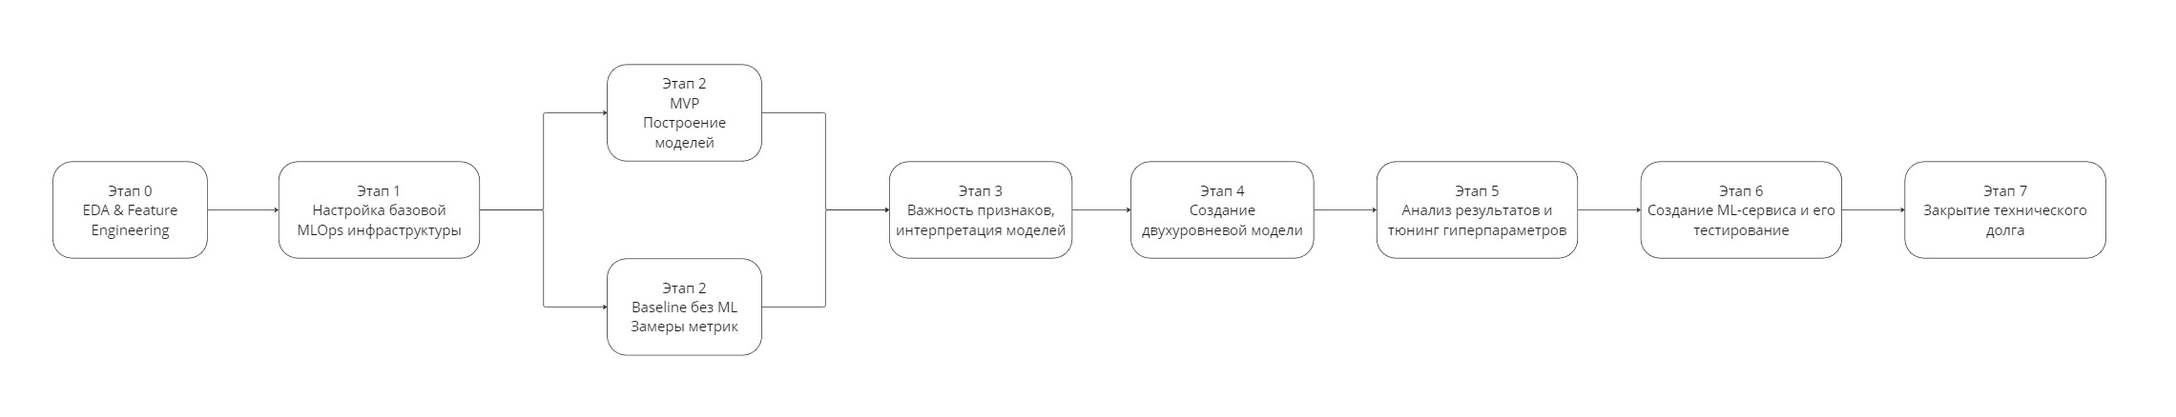
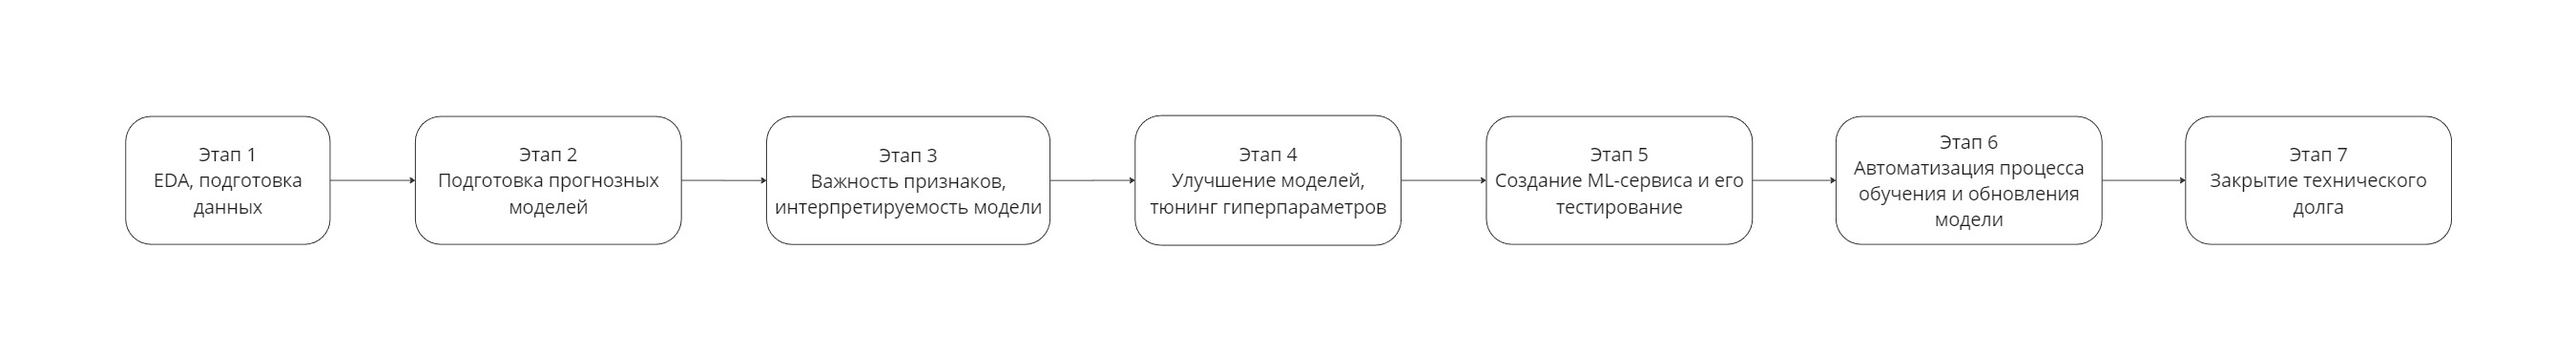
update ml system design doc

diff --git a/docs/ml_system_design_doc.md b/docs/ml_system_design_doc.md
@@ -89,3 +89,166 @@
 ### 2.2. Блок-схема решения
 
 ![Блок-схема](/images/block-scheme.jpg)
+
+### 2.3. Этапы решения задачи
+
+#### Этап 1. Подготовка данных
+**Описание данных и сущностей**  
+Изначально данные представляют собой parquet-файлы с таблицами, содержащими данные о взаимодействиях пользователей с рекламой и характеристиках рекламных кампаний, и представлены следующим образом:
+
+* Основная таблица с взаимодействиями:  
+platform_id: id платформы (Android, Ios и т.п.)  
+user_id: id пользователя   
+adv_campaign_id: id рекламной кампании   
+banner_code: код баннера  
+adv_creative_id: индификатор креатива  
+event_date: дата показа рекламной кампании пользователю  
+is_main: показ рекламы был осуществлен с главной страницы   
+target: клик / не клик   
+
+* Категории:  
+microcat_id: id микрокатегории   
+level_id: id уровня в дереве микрокатегорий   
+parent_microcat_id: id родительской микрокатегории  
+logcat_id: id логической категории   
+vertical_id: id вертикали   
+category_id: id категории   
+
+* Рекламные кампании:  
+adv_campaign_id: id рекламной кампании  
+start_date: date дата начала рекламной кампании  
+end_date: date дата завершения рекламной кампании   
+goal_cost: цена за клик на рекламу  
+goal_budget: общий бюджет рекламной кампании   
+logcat_id: id логической категории товаров из рекламной кампании  
+location_ids: id локации, на которую рекламная кампания распространяется   
+
+**Проблемы, выявленные в EDA**
+* Пропуски в столбцах таблицы категорий рекламы
+* Сложная иерархия категорий
+* Отсутствие данных о содержании рекламных банеров
+* Недостаточно подробное описание столбцов в таблицах (например, banner_code)
+* Недостаточное описание терминов (вертикаль, логическая категория, микрокатегория)
+* Данные представлены только за 3 недели
+* Сильный дисбаланс меток классов (только 0.51% кликов)
+* Возможно, потребуется использовать методы oversampling (например, SMOTE) или undersampling
+* Для проведения EDA понадобилось больше 32 Гб оперативной памяти
+* Большое количество данных модет потенциально привести к долгому времени обучения моделей и большим затратам оперативной памяти
+
+**Процесс генерации данных**  
+Данные были получены один раз, за первые 3 недели сентября 2024 года и были представлены на хакатоне. Повторной генерации данных не планируется.
+
+**Объём данных**  
+Данные содержат более 100M взаимодействий, 3M уникальных пользователей, 4K уникальных рекламных кампаний за 3 недели. Данного объёма должно быть достаточно для построения предсказаний на ближайшую неделю.
+
+**Конфиденциальная информация**  
+Данные анонимизированы (platform_id, user_id, adv_campaign_id, banner_code, adv_creative_id) и не нарушают требования GDPR.
+
+**Необходимый результат этапа**
+1. Изучение данных и выявление проблем:
+   - Анализ распределений целевой переменной и основных фичей.
+   - Проверка наличия выбросов.
+   - Выявление коллинеарных признаков и потенциально избыточных фичей.
+2. Нахождение потенциально важных признаков:
+   - Исследование корреляций между признаками и целевой переменной.
+   - Генерация сводных статистик (например, CTR для разных категорий, платформ, и дней недели).
+3. Очистка данных от пропусков и дубликатов:
+   - Удаление или заполнение пропусков (например, средними, медианами).
+   - Удаление или корректировка дубликатов в данных.
+4. Объединение данных в единую таблицу:
+   - Слияние таблиц Train/Test, Campaigns, и Categories.
+   - Проверка корректности связей между user_id, adv_campaign_id, и другими идентификаторами.
+5. Создание новых признаков:
+   - Генерация временных фичей (например, день недели, праздничный день).
+   - Создание агрегированных признаков (например, средний CTR пользователя или кампании).
+6. Создание необходимых скриптов для преобразования данных:
+   - Разработка функций или классов для автоматизации обработки данных.
+   - Сохранение пайплайна обработки данных для дальнейшего использования.
+7. Оптимизация типов данных:
+   - Приведение данных к более экономным типам (float32, int16, и т.д.).
+   - Сокращение потребления памяти при загрузке данных.
+
+
+#### Этап 2. Подготовка прогнозных моделей
+##### ML-метрики и функции потерь
+
+**Для бинарной классификации:**
+- **ROC AUC**: Подходит для оценки качества классификации, особенно в условиях дисбаланса классов, позволяет оценить модель при разных порогах.
+- **Precision, Recall и F1-score**: Полезны для разносторонней оценки качества классификации.
+- **Weighted Binary Crossentropy**: Учитывает дисбаланс классов, задавая больший вес для меньшего класса.
+
+**Для ранжирования:**
+- **NDCG (Normalized Discounted Cumulative Gain)**: Учитывает положение релевантных элементов в списке, назначая больший вес верхним позициям. Это особенно важно в рекламных системах, где верхние позиции получают больше кликов. По сравнению с MAP, NDCG штрафует за неправильный порядок релевантных элементов, что делает её предпочтительной для задач с критичной важностью топовых позиций.
+- **MRR (Mean Reciprocal Rank)**: Фокусируется на нахождении первого релевантного элемента, что полезно в задачах, где важен только первый клик. Однако она игнорирует качество остальных позиций, что делает её менее универсальной, чем NDCG.
+- **MAP (Mean Average Precision)**: Эта метрика оценивает среднюю точность рекомендаций на всех позициях, но не учитывает их относительную важность (в отличие от NDCG).
+
+**Функции потерь для ранжирования:**
+- **LambdaRank Loss**: Учитывает относительную важность позиций в списке и оптимизирует NDCG, что делает его идеальным для задач с критичным значением топовых позиций.
+- **Listwise функции потерь**: Оптимизируют весь список целиком, а не отдельные пары. Это делает его подходящим для сложных задач ранжирования, но увеличивает вычислительные затраты, что может быть ограничением при больших наборах данных.
+
+##### Схема ML-валидации
+- Данные разделяются на тренировочные и тестовые выборки по времени (`train` - первые 80%, `test` - последние 20%).
+- Time-based CV для учета сезонных эффектов.
+
+##### Структура бейзлайна
+**Бейзлайн без ML:**
+- Предположение: пользователь кликнет на ту же рекламу, на которую он кликал ранее. Результаты сравниваются с ML-моделями.
+
+**Бейзлайн с ML:**
+- **Модель**: Gradient Boosting (например, CatBoost, LightGBM, XGBoost).
+- **Особенности**:
+  - Применение взвешенной функции потерь для корректировки дисбаланса
+  - Применение over- и under- сэмплинга для корректировки дисбаланса
+
+##### Расширенные системы
+**Система с ранжированием:**
+- **Использование двухуровневого подхода**:
+  - **Модели первого уровня (пример)**:
+    - EASE
+    - LightFM
+    - SVD
+    - iALS
+    - User/Item KNN
+    - VAE
+    - SASRec / BERT4Rec
+  - **Модель второго уровня**:
+    - Gradient Boosting (например, LightGBM), использующий предсказания моделей первого уровня как фичи, а также дополнительные признаки из данных.
+
+##### Стратегии развития системы:
+- Улучшение ранжирования через интеграцию информации о категориях товаров и пользовательских предпочтений.
+- Использование pre-trained моделей или векторных представлений контента.
+- Исследование общих предпочтений пользователей и краткосрочных трендов. Адаптация трансформерной модели под это (Как в KuaiFormer)
+
+##### Необходимый результат этапа
+- Модель, достигающая порога качества ROC AUC ≥ 0.55.
+- Выявление ключевых признаков, влияющих на предсказания.
+- Построение двухуровневой системы для рекомендаций.
+
+#### Этап 3. Важность признаков, интерпретируемость модели
+- Выявление наиболее значимых признаков с использованием методов SHAP, Permutation Importance или Gini Importance (для моделей на основе деревьев).
+- Оценка влияния каждого признака на предсказания модели, создание отчетов для бизнес-команды.
+- Валидация важности признаков через удаление/добавление фичей и измерение изменения метрик качества.
+
+#### Этап 4. Улучшение моделей, тюнинг гиперпараметров
+- Проведение гиперпараметрической оптимизации, например, с использованием Optuna.
+- Эксперименты с различными экспериментальными архитектурами системы (трансформеры на последнем уровне или LLM для выбора категории рекламы чтобы повысить diversity).
+- Тестирование новых стратегий feature engineering, добавление новых и удаление избыточных фичей.
+- Анализ устойчивости модели к изменению данных, изучение возможного переобучения.
+- Оптимизация модели для работы в реальном времени с более низкими задержками.
+- Анализ устойчивости модели для обучения на меньшем количестве данных.
+
+#### Этап 5. Создание ML-сервиса и его тестирование
+- Разработка API для инференса модели с использованием FastAPI или Flask.
+- Контейнеризация сервиса с Docker, настройка CI/CD пайплайнов.
+- Тестирование производительности сервиса в условиях высокой нагрузки.
+- Настройка мониторинга предсказаний и логирования ошибок.
+
+#### Этап 6. Автоматизация процесса обучения и обновления модели
+- Настройка Airflow для автоматизации обучения модели по расписанию.
+- Интеграция MLOps-инструментов, таких как MLflow, для управления экспериментами и версиями моделей.
+- Валидация качества обновленных моделей перед их деплоем.
+
+#### Этап 7. Закрытие технического долга
+- Оптимизация кода для снижения затрат вычислительных ресурсов.
+- Документирование всех компонентов системы, создание гайдлайнов для будущих разработчиков.
+- Устранение выявленных технических проблем (например, долгой обработки данных или избыточного потребления памяти).
